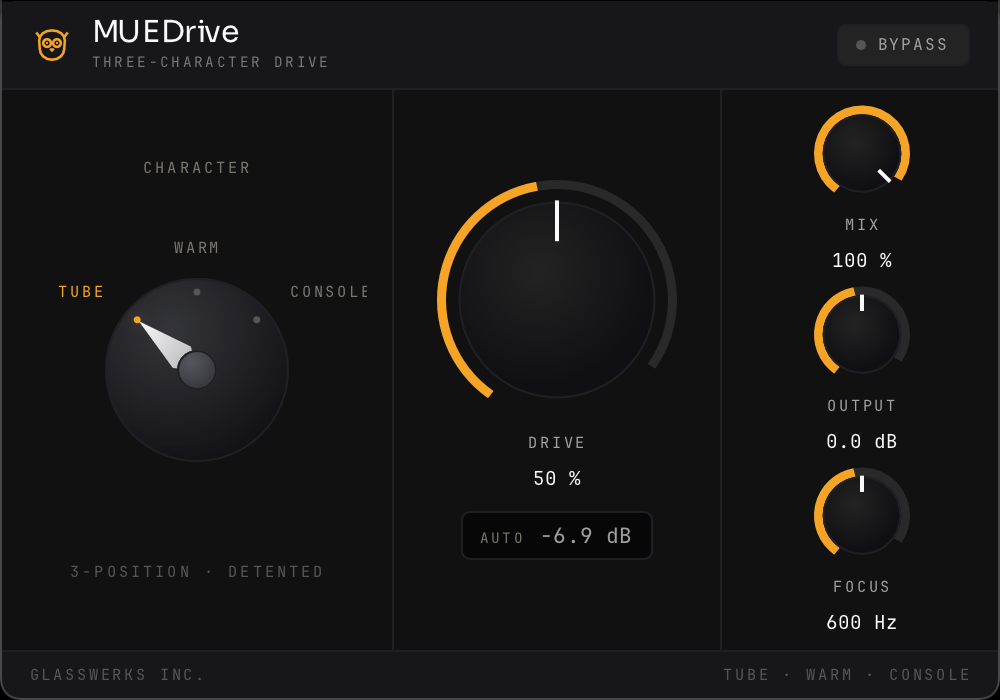
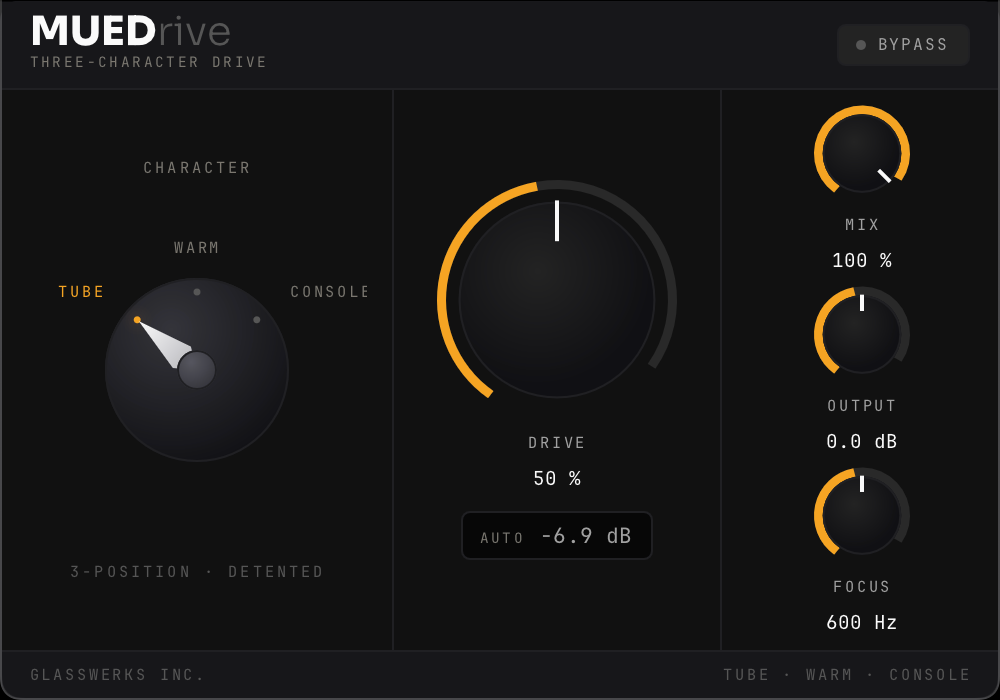
feat(muedrive): house に合わせた faceplate へ差し替え + alt 書き直し + ブランド定義を記録
kimny が Pro Tools で3本 並べて MUEDrive のロゴだけ house から外れていると検出
（逐語「MUEDspとMUEDriveのロゴコンセプトが違いすぎんか？ MUEDspに合わせて欲しい」）。
dsp が焼き直し（#464）。

① public/muedrive/faceplate.png を新 render へ（76,078 B・conductor 申告と一致）
② alt text を ja/en とも書き直し
   ★dsp が実画像から読んだ事実を材料として受け取ったが、dsp 自身が
   「mued の目の代わりにするものではない」と申し送ったので、当課で画像を開いて書いた。
   旧 alt の「フクロウのマーク」は実物から消えているので、そのままなら嘘になっていた。
   （残る「フクロウ」2件は MUEDear の Hoo マスコット＝別物・正しい mention）
③ registry の audienceEnvName に kimny のブランド定義を記録（runtime 不変）
   ★「MUEDsp はプラグイン全てを包括したブランド名」＝ 配信先は製品ごとではなく1つ。
   ★当課はこの変数名が製品ごとに分かれているのを見て「実体も別」と推定し、
   conductor に誤った根拠を渡した（定義行を引いたが、その行は変数名しか示していない）。
   次に読む人が同じ推定をしないよう、誤りごと書き残す。

★当課の見落としの記録: faceplate を hero に置き alt を実画像から書きながら、
house との一貫性は見ていなかった。「実物を見た」と「実物を他と並べて見た」は別。
dsp も同型を申告している（「プラグインの中しか見ていない・出荷物は plugin だけではない」）。

検証: tsc 0 / unit 1988 passed / build rc=0（★結果でゲート）。

Changed region(s): [[0.031, 0.0, 0.31, 0.12]]

diff --git a/lib/plugins/registry.ts b/lib/plugins/registry.ts
@@ -29,7 +29,16 @@ export interface PluginDist {
   i18nNamespace: string;
   /** POST target for the email-gate form. */
   subscribeEndpoint: string;
-  /** NAME of the Resend audience env var — the VALUE is read server-side (lib/plugins/audience.ts). */
+  /**
+   * NAME of the Resend audience env var — the VALUE is read server-side (lib/plugins/audience.ts).
+   *
+   * ★These names are per-product for historical reasons ONLY. They do not imply per-product lists.
+   * kimny 2026-08-27: "MUEDsp はプラグイン全てを包括したブランド名" — there is ONE MUEDsp audience
+   * and every module points at it. Measured the same day: the account holds two segments total
+   * (MUEDsp, General); no per-product segment has ever existed.
+   * ★Do not infer "a new module needs a new audience" from the fact that this name is new — that
+   * inference was made here on 2026-08-27 from the variable names alone and was wrong.
+   */
   audienceEnvName: string;
 }
 
